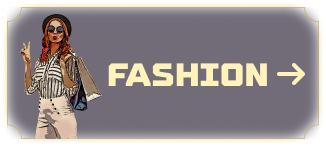
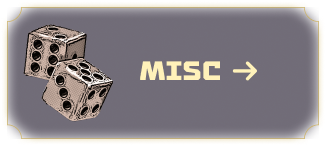
feat: change fashion into misc

Changed region(s): [[0.0613, 0.0822, 0.9509, 0.9589]]

diff --git a/app/events/page.tsx b/app/events/page.tsx
@@ -23,7 +23,7 @@ import musicbg from "../../assets/Events/Folders/musicbg.png";
 import quizbg from "../../assets/Events/Folders/quizbg.png";
 import dramabg from "../../assets/Events/Folders/dramabg.png";
 import dancebg from "../../assets/Events/Folders/dancebg.png";
-import fashionbg from "../../assets/Events/Folders/fashionbg.png";
+import miscbg from "../../assets/Events/Folders/miscbg.png";
 import camerabg from "../../assets/Events/Folders/camerabg.png";
 import PrePreloader from "@/components/PreloaderProMax/PreloaderProMax";
 import CursorEffect from "@/components/CursorEffect/CursorEffect";
@@ -127,7 +127,6 @@ export default function EventsPage() {
     }
     document.body.style.overflow = "hidden";
   }, []);
-  
 
   return (
     <>
@@ -262,14 +261,14 @@ export default function EventsPage() {
                 <Image src={dancebg} alt="music" width={484} height={300} />
               </div>
             </Link>
-            <Link href="/events/fashion">
-              <div className={styles.box}>
-                <Image src={fashionbg} alt="music" width={484} height={300} />
-              </div>
-            </Link>
             <Link href="/events/photography">
               <div className={styles.box}>
                 <Image src={camerabg} alt="music" width={484} height={300} />
+              </div>
+            </Link>
+            <Link href="/events/misc">
+              <div className={styles.box}>
+                <Image src={miscbg} alt="music" width={484} height={300} />
               </div>
             </Link>
           </div>
@@ -303,9 +302,9 @@ export default function EventsPage() {
               className={styles.mobileimg}
             />
           </Link>
-          <Link href="/events/fashion">
+          <Link href="/events/photography">
             <Image
-              src={fashionmobile}
+              src={cameramobile}
               alt="music"
               width={312}
               height={132}
@@ -321,9 +320,9 @@ export default function EventsPage() {
               className={styles.mobileimg}
             />
           </Link>
-          <Link href="/events/photography">
+          <Link href="/events/misc">
             <Image
-              src={cameramobile}
+              src={fashionmobile}
               alt="music"
               width={312}
               height={132}

diff --git a/components/MobileLanding/EventsPageMobile/EventsPageMobile.tsx b/components/MobileLanding/EventsPageMobile/EventsPageMobile.tsx
@@ -96,9 +96,9 @@ export default function EventsMobile() {
             className={styles.mobileimg}
           />
         </Link>
-        <Link href="/events/fashion">
+        <Link href="/events/photography">
           <Image
-            src={fashionmobile}
+            src={cameramobile}
             alt="music"
             width={312}
             height={132}
@@ -114,9 +114,9 @@ export default function EventsMobile() {
             className={styles.mobileimg}
           />
         </Link>
-        <Link href="/events/photography">
+        <Link href="/events/misc">
           <Image
-            src={cameramobile}
+            src={fashionmobile}
             alt="music"
             width={312}
             height={132}
@@ -273,7 +273,7 @@ export default function EventsMobile() {
               <p className={styles.dancetxt}>DANCE</p>
             </div>
           </Link>
-          <Link href="/events/fashion">
+          <Link href="/events/misc">
             <div className={styles.box}>
               <svg
                 xmlns="http://www.w3.org/2000/svg"

diff --git a/app/events/[categoryname]/page.tsx b/app/events/[categoryname]/page.tsx
@@ -10,15 +10,6 @@ import { useRouter } from "next/navigation";
 import LoaderChip from "@/components/Events/Loader/LoaderChip";
 import gsap from "gsap";
 
-const categories = [
-  "music",
-  "quizzes",
-  "drama",
-  "dance",
-  "fashion",
-  "photography",
-];
-
 export default function Page({ params }: { params: { categoryname: string } }) {
   const router = useRouter();
   const [eventsList, setEventsList] = useState<any>([]);
@@ -58,13 +49,10 @@ export default function Page({ params }: { params: { categoryname: string } }) {
         // console.log(filteredEvents);
         setEventsList(filteredEvents);
         setLoading(false);
+        if (filteredEvents.length === 0) {
+          router.push("/404");
+        }
       });
-  }, []);
-
-  useEffect(() => {
-    if (!categories.includes(params.categoryname)) {
-      window.location.href = "/404";
-    }
   }, []);
 
   const animate = (direction: string) => {
